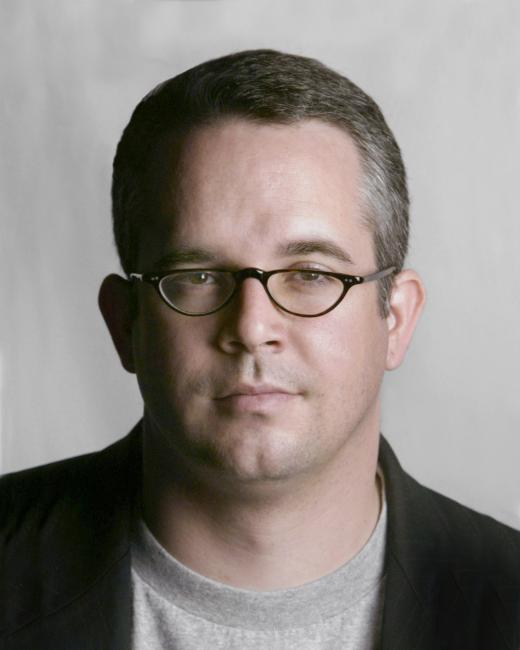
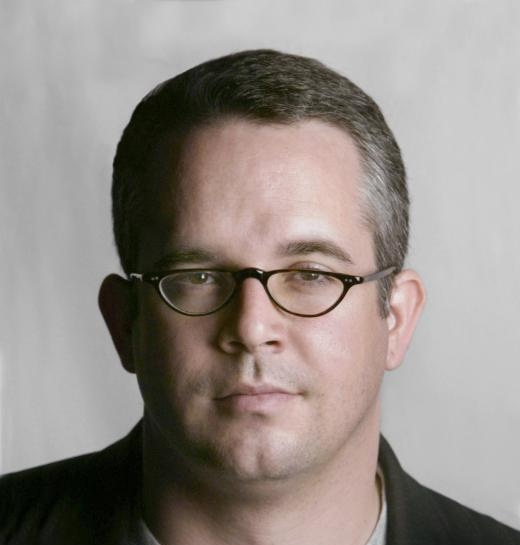
update early adopters

diff --git a/index.html b/index.html
@@ -387,7 +387,7 @@
                 </div>
 
                 <div class="early-adopter-card">
-                    <img src="assets/early-adopters/jason-chatfield.webp" alt="Jason Chatfield" class="early-adopter-photo">
+                    <img src="assets/early-adopters/jason-chatfield.jpg" alt="Jason Chatfield" class="early-adopter-photo">
                     <div class="early-adopter-info">
                         <h3 class="early-adopter-name">Jason Chatfield</h3>
                         <p class="early-adopter-title">New Yorker cartoonist and Ginger Meggs writer/artist</p>
